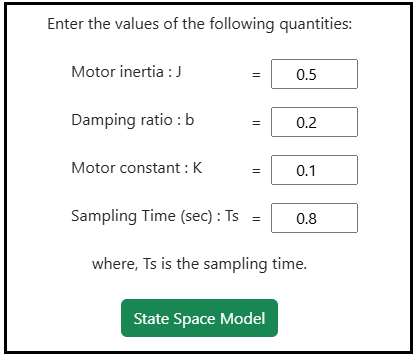
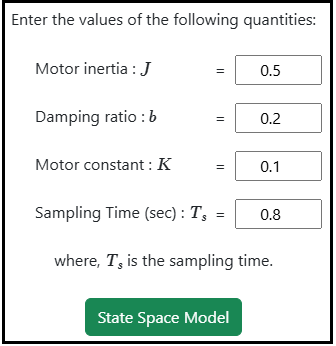
update4

diff --git a/experiment/simulation/index.html b/experiment/simulation/index.html
@@ -119,16 +119,17 @@
 
             </div><!--First col under 2nd row end-->
             <div class="col-md-6"><!--2nd col under 2nd row start-->
-                <p class="h1"> <b> Simulation </b> </p>
+                <p class="h1"> <b>Simulation </b> </p>
             </div><!--2nd col under 2nd row end-->
             <div class="col-md-3"><!--3rd col under 2nd row start-->
 
             </div><!--3rd col under 2nd row end-->
         </div><!--2nd row under 1st container end-->
         <hr>
-        
+       
     </div><!--First Container under body tag end-->
     
+   
 	
     <div class="container p-3 my-5 text-left border"><!--3rd Container under body tag start-->
       <div class="row"><!--First row under 3rd container start-->
@@ -136,13 +137,13 @@
         <div class="col-md-10"><!--2nd col under 3rd container start-->
             <p class="text-center bg-success"> <a class="nav-link" data-bs-toggle="tab"  id="instcontrol" style="background-color:#128BD9"  ><span class=" h3 text-dark"> Instructions </span></a>
               <ol id="inst" style="display:block;height:200px;overflow-y:auto;text-align:justify">
-                      <li> Enter the values of the DC motor parameter. Note: Default values are already given. </li></br>
+                      <li> Enter the values of the DC motor parameters. Note: Default values are already given. </li></br>
   
 					  <li> Click on 'State Space Model' button to get the state space form of the system. </li><br/>
 					  
 					  <li> Click on ' Adding Integral State for PID control' button to get the augmented matrices. </li><br/> 
 					  
-					  <li> Click on ' Enter the pole Location' button to enter desired pole values. </li><br/> 
+					  <li> Click on ' Enter the desired pole location' button to enter desired pole values. </li><br/> 
 					 
 					 <li> Enter the desired negative pole values (in s domain). </li><br/> 
 					 
@@ -191,12 +192,12 @@
 			Enter the values of the following quantities: <br/><br/>
 			<!--<img class = "img-fluid" src="./images/Continuous_System.png" class="img-fluid" > <br/></br>-->
 			
-			<span style="position:absolute;left:40%">Motor inertia :  J</span> <span style="position:absolute;left:54%">= &nbsp;<input type="number" id="J1" min="0.1" value="0.5" max="1" step="0.05" style="text-align:center" ></span><br/></br>
-			<span style="position:absolute;left:40%">Damping ratio : b</span>  <span style="position:absolute;left:54%">= &nbsp;<input type="number" id="B1" min="0.1" value="0.2" max="1" step="0.05" style="text-align:center" ></span><br/></br>
-			<span style="position:absolute;left:40%">Motor constant :  K</span> <span style="position:absolute;left:54%">= &nbsp;<input type="number" id="K1" min="0.01" value="0.1" max="1" step="0.01" style="text-align:center" ></span><br/></br>
+			<span style="position:absolute;left:40%">Motor inertia :  <span style="font-family:Bodoni MT;font-style:italic;font-size:18px">J</span></span> <span style="position:absolute;left:54%">= &nbsp;<input type="number" id="J1" min="0.1" value="0.5" max="1" step="0.05" style="text-align:center" ></span><br/></br>
+			<span style="position:absolute;left:40%">Damping ratio : <span style="font-family:Bodoni MT;font-style:italic;font-size:18px">b</span></span>  <span style="position:absolute;left:54%">= &nbsp;<input type="number" id="B1" min="0.1" value="0.2" max="1" step="0.05" style="text-align:center" ></span><br/></br>
+			<span style="position:absolute;left:40%">Motor constant :  <span style="font-family:Bodoni MT;font-style:italic;font-size:18px">K</span></span> <span style="position:absolute;left:54%">= &nbsp;<input type="number" id="K1" min="0.01" value="0.1" max="1" step="0.01" style="text-align:center" ></span><br/></br>
 			
-			<span style="position:absolute;left:40%">Sampling Time (sec) :  Ts</span> <span style="position:absolute;left:54%">= &nbsp;<input type="number" id="Ts1" min="0.01" value="0.8" max="1" step="0.01" style="text-align:center" ></span><br/></br>
-           where, Ts is the sampling time. <br/></br>
+			<span style="position:absolute;left:40%">Sampling Time (sec) :  <span style="font-family:Bodoni MT;font-style:italic;font-size:18px">T<sub>s</sub></span></span> <span style="position:absolute;left:54%">= &nbsp;<input type="number" id="Ts1" min="0.01" value="0.8" max="1" step="0.01" style="text-align:center" ></span><br/></br>
+           where, <span style="font-family:Bodoni MT;font-style:italic;font-size:18px">T<sub>s</sub></span> is the sampling time. <br/></br>
 		 <!--  Length to pendulum center of mass : l (m) = &nbsp;<input type="number" id="l1" min="0.1" value="0.3" max="1" step="0.05" style="width:25%" ><br/></br>	
             Mass moment of inertia of the pendulum : I (kg.m^2) = &nbsp;<input type="number" id="I1" min="0.001" value="0.006" max="1" step="0.001" style="width:25%" ><br/></br>  -->
             
@@ -387,9 +388,9 @@
 			
 			<span class="card-text" id="matQc" ></span><br/<br/>
 			 
-			<button class="btn btn-success" onclick="showRank()">Rank of Qc</button>
+			<button class="btn btn-success" onclick="showRank()">Rank of <span style='font-family:Bodoni MT;font-style:italic;font-size:18px'>Q<sub>c</sub></span></button>
 				<span id="Cntrl_Test1" style="display:none"></span><br/><br/>
-			<button class="btn btn-success" onclick="showDetQc()">Determinant of Qc</button>
+			<button class="btn btn-success" onclick="showDetQc()">Determinant of <span style='font-family:Bodoni MT;font-style:italic;font-size:18px'>Q<sub>c</sub></span></button>
 			    <span id="Cntrl_Test2" style="display:none"></span><br/><br/>
 			<button class="btn btn-success" onclick="showinfo()">Inference</button>
 				<span id="Cntrl_Test3" style="display:none"></span><br/><br/>

diff --git a/experiment/simulation/js/DS.js b/experiment/simulation/js/DS.js
@@ -77,10 +77,10 @@ function system(){
 			//CSSM=" Continuous State Space Model:\t:";
 			//document.getElementById("C_SS_M").innerHTML=CSSM;
 			
-			document.getElementById('matA').innerHTML = ' A =['+ a11+',\t'+a12+';\t\t'+a21+','+a22+']';
-			document.getElementById('matB').innerHTML = ' B =['+ b1+';\t\t'+b2+']';
-			document.getElementById('matC').innerHTML = ' C =['+ c11+',\t'+c12+']';
-			document.getElementById('matD').innerHTML = ' D =['+ d11+']';
+			document.getElementById('matA').innerHTML = '<span style="font-family:Bodoni MT;font-style:italic;font-size:18px"> A </span> =['+ a11+',\t'+a12+';\t\t'+a21+','+a22+']';
+			document.getElementById('matB').innerHTML = ' <span style="font-family:Bodoni MT;font-style:italic;font-size:18px">B </span> =['+ b1+';\t\t'+b2+']';
+			document.getElementById('matC').innerHTML = ' <span style="font-family:Bodoni MT;font-style:italic;font-size:18px">C </span> =['+ c11+',\t'+c12+']';
+			document.getElementById('matD').innerHTML = ' <span style="font-family:Bodoni MT;font-style:italic;font-size:18px">D </span> =['+ d11+']';
 			
 			//outputText1=" G(s)= ["+b0+"s\u00B2+("+b1+")s+("+b2+ ")] / [" +a0+"s<sup>2</sup>+("+a1+")s+("+a2+ ")]";
 			
@@ -211,8 +211,8 @@ function system(){
 			//DSSM=" Discrete State Space Model:\t:";
 			//document.getElementById("D_SS_M").innerHTML=DSSM;
 			
-			document.getElementById('matAd').innerHTML = ' F =['+ ad11+',\t'+ad12+';\t\t'+ad21+','+ad22+']';
-			document.getElementById('matBd').innerHTML = ' g =['+ bd1+';\t\t'+bd2+']';
+			document.getElementById('matAd').innerHTML = '<span style="font-family:Bodoni MT;font-style:italic;font-size:18px"> F </span>=['+ ad11+',\t'+ad12+';\t\t'+ad21+','+ad22+']';
+			document.getElementById('matBd').innerHTML = '<span style="font-family:Calibri;font-style:italic;font-size:18px"> g </span>=['+ bd1+';\t\t'+bd2+']';
 			//document.getElementById('matCd').innerHTML = ' C =['+ c11+',\t'+c12+']';
 			//document.getElementById('matDd').innerHTML = ' D =['+ d11+']';
 			
@@ -380,8 +380,8 @@ function AddingIS(){
 			var mF = math.matrix([[ad11, ad12, ad13], [ad21, ad22, ad23],[ad31, ad32,ad33]]);
 			var mg = math.matrix([[bd1], [bd2],[bd3]]);
 			
-			document.getElementById('matAad').innerHTML = ' Fa =['+ ad11+',\t'+ad12+',\t'+ad13+';\t\t'+ad21+','+ad22+',\t'+ad23+';\t\t'+ad31+','+ad32+',\t'+ad33+']';
-			document.getElementById('matBad').innerHTML = ' ga =['+ bd1+';\t\t'+bd2+';\t\t'+bd3+']';
+			document.getElementById('matAad').innerHTML = '<span style="font-family:Bodoni MT;font-style:italic;font-size:18px">F<sub>a</sub></span> = ['+ ad11+',\t'+ad12+',\t'+ad13+';\t\t'+ad21+','+ad22+',\t'+ad23+';\t\t'+ad31+','+ad32+',\t'+ad33+']';
+			document.getElementById('matBad').innerHTML = '<span style="font-family:calibri;font-style:italic;font-size:18px">g<sub>a</sub></span> = ['+ bd1+';\t\t'+bd2+';\t\t'+bd3+']';
             
 			
 			document.getElementById("run1").style.visibility="visible";
@@ -627,9 +627,9 @@ function CNTR(){
 			var Faga= math.matrix([abd1,abd2, abd3 ]);
 			var FaFaga= math.matrix([aabd1, aabd2, aabd3]);
 						
-			document.getElementById('matQcg').innerHTML = 'ga ='+ ga;
-			document.getElementById('matQcFg').innerHTML = ' Faga ='+ Faga;
-			document.getElementById('matQcFFg').innerHTML = ' Fa<sup>2</sup>ga ='+ FaFaga;
+			document.getElementById('matQcg').innerHTML = '<span style="font-family:calibri;font-style:italic;font-size:18px">g<sub>a</sub></span> ='+ ga;
+			document.getElementById('matQcFg').innerHTML = ' <span style="font-family:Bodoni MT;font-style:italic;font-size:18px">F<sub>a</sub></span><span style="font-family:calibri;font-style:italic;font-size:18px">g<sub>a</sub></span> ='+ Faga;
+			document.getElementById('matQcFFg').innerHTML = ' <span style="font-family:Bodoni MT;font-style:italic;font-size:18px">F<sub>a</sub></span><sup>2</sup><span style="font-family:calibri;font-style:italic;font-size:18px">g<sub>a</sub></span> ='+ FaFaga;
 			
 			
 			//var Qc1= math.matrix([[0, 1.818, -0.331, 12.209], [1.818, -0.331, 12.209, -4.433], [0, 4.545, -0.827, 141.873], [4.545, -0.827, 141.873, -31.349]]);
@@ -638,7 +638,7 @@ function CNTR(){
 			
 			var Qc= math.matrix([[bd1, abd1, aabd1],[bd2, abd2, aabd2],[bd3, abd3, aabd3]]);
 			
-			document.getElementById('matQc').innerHTML = ' Q<sub>c</sub> =['+ bd1+',\t'+abd1+',\t'+aabd1+';\t\t'+bd2+','+abd2+',\t'+aabd2+';\t\t'+bd3+',\t'+abd3+',\t'+aabd3+']'
+			document.getElementById('matQc').innerHTML = ' <span style="font-family:Bodoni MT;font-style:italic;font-size:18px">Q<sub>c</sub></span> =['+ bd1+',\t'+abd1+',\t'+aabd1+';\t\t'+bd2+','+abd2+',\t'+aabd2+';\t\t'+bd3+',\t'+abd3+',\t'+aabd3+']'
 			
 			var DQc= math.divide(math.round(math.multiply(math.det(Qc),1000)),1000);
 			console.log(DQc);
@@ -646,8 +646,8 @@ function CNTR(){
 			//DQc=0;
 			
 			if (DQc!=0)
-			{  Cntrl_Test1=" Rank of Q<sub>c</sub> = Order of A = n = 3";			   
-			   Cntrl_Test2="Determinent of Q<sub>c</sub> = " +DQc+ "";				    
+			{  Cntrl_Test1=" Rank is 3";			   
+			   Cntrl_Test2="Determinent is " +DQc+ "";				    
 			   Cntrl_Test3=" System is completely controllable";
 			   document.getElementById("Cntrl_Test1").innerHTML=Cntrl_Test1;
 			   document.getElementById("Cntrl_Test2").innerHTML=Cntrl_Test2;
@@ -750,8 +750,8 @@ function CNTR(){
 			   
 			}
 			   else 
-			   {   Cntrl_Test1=" Rank of Q<sub>c</sub> < Order of A = n = 3";
-		           Cntrl_Test2="Determinent of Q<sub>c</sub> = " +DQc+ "";		
+			   {   Cntrl_Test1=" Rank < n = 3";
+		           Cntrl_Test2="Determinent is " +DQc+ "";		
 			       Cntrl_Test3=" System is not controllable";
 			       document.getElementById("Cntrl_Test1").innerHTML=Cntrl_Test1;
 				   document.getElementById("Cntrl_Test2").innerHTML=Cntrl_Test2;
